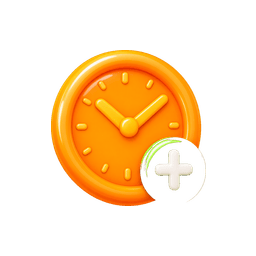
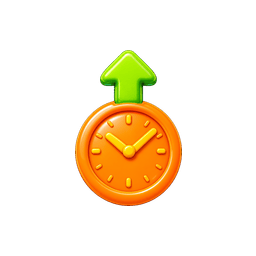
goods-sort: 시간추가 아이콘 +제거(시계+위화살표=중복+ 해소) + 잠긴 아이템 스타일 레퍼정합(회색 아이콘 노출+하단 Lv 배너+우하단 작은 자물쇠)

Changed region(s): [[0.1875, 0.1875, 0.8125, 0.8125], [0.7812, 0.5938, 0.8125, 0.75], [0.75, 0.75, 0.7812, 0.7812]]

diff --git a/engine/goods-sort.html b/engine/goods-sort.html
@@ -916,15 +916,17 @@
     border:2px solid #fff; box-shadow:0 1px 2px rgba(0,0,0,.3); pointer-events:none; }
   /* qty=0 → same badge but a YELLOW "+" (replaces the count); tapping the tile opens the shop */
   .booster .qty-badge.plus{ background:linear-gradient(#ffd24d,#f3a712); color:#fff; font-size:17px; line-height:1; }
-  /* LOCKED item — greyed + padlock + unlock level */
-  .booster.locked{ filter:grayscale(.85) brightness(.82) drop-shadow(0 4px 3px rgba(80,50,20,.3)); cursor:default; }
-  .booster .lock-ov{ position:absolute; inset:0; display:flex; flex-direction:column;
-    align-items:center; justify-content:center; gap:0; pointer-events:none; }
-  .booster .lock-ov .lk-pad{ width:48%; height:48%;
+  /* LOCKED item (ref IMG_3305): greyed icon stays VISIBLE + a "Lv.N" banner across the
+     bottom + a small padlock at the bottom-right corner. */
+  .booster.locked{ filter:grayscale(.78) brightness(.86) saturate(.6) drop-shadow(0 3px 3px rgba(60,55,75,.3)); cursor:default; }
+  .booster .lock-ov{ position:absolute; inset:0; pointer-events:none; }
+  .booster .lock-ov .lk-lv{ position:absolute; left:7%; right:7%; bottom:5%; z-index:3;
+    background:rgba(74,82,108,.82); border-radius:7px; padding:1.5px 0; text-align:center;
+    color:#fff; font-weight:900; font-size:12px; letter-spacing:.3px;
+    box-shadow:inset 0 1px 0 rgba(255,255,255,.22); }
+  .booster .lock-ov .lk-pad{ position:absolute; right:-6px; bottom:-6px; z-index:4; width:42%; height:42%;
     background:url("../assets/ui/lock_closed.png") center/contain no-repeat;
     filter:drop-shadow(0 2px 2px rgba(0,0,0,.4)); }
-  .booster .lock-ov .lk-lv{ font-weight:900; font-size:11px; color:#fff; margin-top:1px;
-    -webkit-text-stroke:1.4px #5a3a14; paint-order:stroke fill; }
   /* ARMED (hammer targeting) — pulse the tile */
   .booster.armed{ animation:itemPulse .7s ease-in-out infinite; }
   @keyframes itemPulse{ 0%,100%{ transform:scale(1);} 50%{ transform:scale(1.13);} }
@@ -3466,7 +3468,7 @@
       b.classList.toggle('locked', locked);
       b.classList.toggle('armed', key==='hammer' && hammerArmed);
       if (locked){
-        b.innerHTML = '<div class="lock-ov"><div class="lk-pad"></div><span class="lk-lv">Lv '+def.unlock+'</span></div>';
+        b.innerHTML = '<div class="lock-ov"><div class="lk-lv">Lv '+def.unlock+'</div><div class="lk-pad"></div></div>';
       } else if (free>0){
         b.innerHTML = '<div class="qty-badge">'+(S._cheat?'∞':free)+'</div>';   // inventory count (∞ in cheat)
       } else {